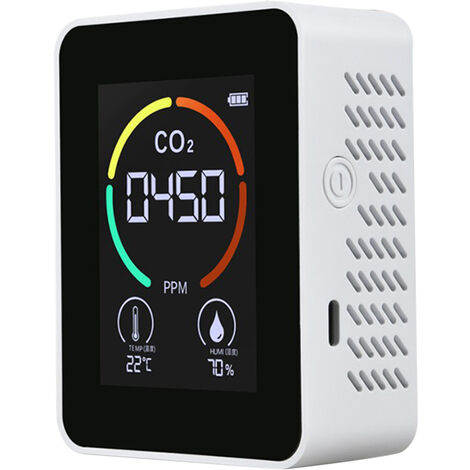
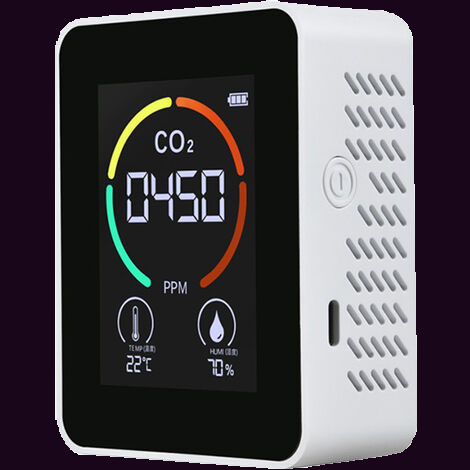
photo capteur co2

Changed region(s): [[0.0, 0.0, 1.0, 1.0]]

diff --git a/vues/accueil.php b/vues/accueil.php
@@ -16,7 +16,7 @@
             <h2> Capteur cardiaque </h2>
         </div>
         <div> 
-            <img src="vues/capteur_CO2.png" alt="capteur CO2" width="300px" height="300px">
+            <img src="vues/capteur_CO2.jpg" alt="capteur CO2" width="300px" height="300px">
             <h2> Capteur CO2 </h2>
         </div>
         <div>
